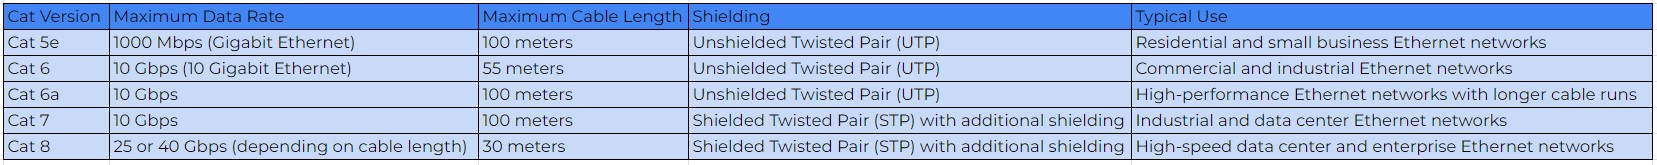
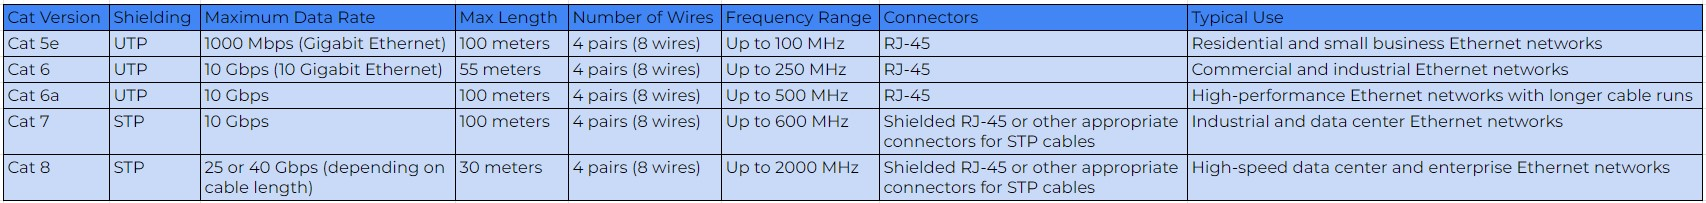
1104230801AM

diff --git a/networkknowledge/web/networkknowledge.html b/networkknowledge/web/networkknowledge.html
@@ -17,7 +17,8 @@
           <td align="middle"><img src="images/computernetworking.jpg" alt="" width="79%" height="60%"></td>
           <td>  
             <b><a href="#id_expansion_cards_details" style="color: rgb(0, 0, 0); text-decoration: none;">x-----------------------------x</a></b><b><a href="#id_cooling_system_details" style="color: rgb(0, 0, 0); text-decoration: none;"> | x-----------------------------x</a></b>
-            <b>x-----------------------------x</b>
+            <b>x-----------------------------x</b>     
+            <b><a href="#id_last_details" style="color: rgb(0, 0, 0); text-decoration: none;">######   reach end of the document   ######</a></b>      <b id="id_top_details"></b> 
           </td>
       </tr>
   </table>
@@ -243,27 +244,60 @@ There are several popular cables used for networking, including:
         <img src="images/3.5.2.UTPcableproperties.jpg" alt="" width="49%" height="40%">
         TIA/EIA 568A and TIA/EIA 568B are two different wiring standards for Ethernet cabling, specified by the Telecommunications Industry Association (TIA) and the Electronic Industries 
         Alliance (EIA). These standards define the pinout and color coding for the various pairs of wires used in Ethernet cabling, specifically for 10BASE-T and 100BASE-TX Ethernet networks.
+        The naming conventions for STP and UTP cables in Ethernet standards typically follow similar patterns. Here's a general guide on how STP and UTP cables are typically named:
+            Data Transfer Rate: The data transfer rate, which indicates the speed at which data can be transmitted over the network, is usually specified as a number in Mbps, Gbps, or higher.
+            Cable Type: The cable type, whether it's STP or UTP, may be indicated in the naming convention. For example, "T" typically indicates UTP cables, while "F" or "X" may indicate fiber 
+            optic cables, and "S" or "L" may indicate STP cables.
+            Maximum Distance: The maximum distance that data can be transmitted over the network using the specified cable type is usually indicated in the naming convention. This distance is usually 
+            expressed in meters or feet and indicates the maximum length of the cable that can be used for network connections.
+            Other Parameters: Some standards may include additional parameters, such as the encoding scheme used for data transmission, the type of connectors used, or other specifications.
+        "10GBASE-T" is an Ethernet standard that specifies 
+            "10G" in the name indicates the data transfer rate of 10 Gbps
+            "BASE" indicates that it uses baseband signaling, which means that the entire bandwidth of the cable is dedicated to carrying Ethernet data
+            "T" indicates that twisted pair copper cables are used for network connections
+        "Cat" stands for "Category" and refers to a classification system used for Ethernet cables that indicates the performance and capabilities of the cable. Different Cat versions correspond to 
+        different standards set by the TIA/EIA for Ethernet cabling. Overview of the main differences between these Cat versions:
+        <img src="images/3.6.catversions.jpg" alt="" width="69%" height="40%">
     Fiber Optic Cable: Fiber optic cables are used for high-speed and long-distance networking applications. They use light to transmit data, offering faster data transfer rates and better immunity to 
     interference compared to Ethernet cables. Fiber optic cables are commonly used in data centers, telecommunication networks, and other environments where high bandwidth and long-distance 
-    transmission are required. These cables are commonly used in ring topologies and mesh topology
+    transmission are required. These cables are commonly used in ring topologies and mesh topology. There are several different modes of fiber optic cables available, which refer to the way light 
+    travels within the fiber core. 
     <img src="images/3.2.fibreopticcables.jpg" alt="" width="19%" height="40%">
-The naming conventions for STP and UTP cables in Ethernet standards typically follow similar patterns. Here's a general guide on how STP and UTP cables are typically named:
-    Data Transfer Rate: The data transfer rate, which indicates the speed at which data can be transmitted over the network, is usually specified as a number in Mbps, Gbps, or higher.
-    Cable Type: The cable type, whether it's STP or UTP, may be indicated in the naming convention. For example, "T" typically indicates UTP cables, while "F" or "X" may indicate fiber 
-    optic cables, and "S" or "L" may indicate STP cables.
-    Maximum Distance: The maximum distance that data can be transmitted over the network using the specified cable type is usually indicated in the naming convention. This distance is usually 
-    expressed in meters or feet and indicates the maximum length of the cable that can be used for network connections.
-    Other Parameters: Some standards may include additional parameters, such as the encoding scheme used for data transmission, the type of connectors used, or other specifications.
-"10GBASE-T" is an Ethernet standard that specifies 
-    "10G" in the name indicates the data transfer rate of 10 Gbps
-    "BASE" indicates that it uses baseband signaling, which means that the entire bandwidth of the cable is dedicated to carrying Ethernet data
-    "T" indicates that twisted pair copper cables are used for network connections
-"Cat" stands for "Category" and refers to a classification system used for Ethernet cables that indicates the performance and capabilities of the cable. Different Cat versions correspond to 
-different standards set by the TIA/EIA for Ethernet cabling. Overview of the main differences between these Cat versions:
-<img src="images/3.6.catversions.jpg" alt="" width="69%" height="40%">
-Here's a comprehensive list of network topologies, along with the commonly used cables for each topology:
-<img src="images/3.4.cabletypeandtopology.jpg" alt="" width="69%" height="40%">
+    The most common modes of fiber optic cables are:
+        Single-mode (SM): Single-mode fiber optic cables have a small core diameter (typically 9/125 µm or 8.3/125 µm) and allow for only one mode, a single path of light propagation , of light to 
+        travel through the core. Single-mode fibers are designed for long-distance transmission and are used in high-bandwidth applications such as long-haul telecommunications, data centers, and 
+        campus networks. Single-mode fiber is using laser as the source of the light for transmission of the optical signal and transmission media is glass.
+        Multimode (MM): Multimode fiber optic cables have a larger core diameter (typically 50/125 µm or 62.5/125 µm) and allow for multiple modes, allows for multiple modes of light propagation, 
+        of light to travel through the core. Multimode fibers are typically used for shorter distances, such as within buildings or campuses, and are suitable for lower-bandwidth applications such 
+        as local area networks (LANs), premises cabling, and some data center applications. Multimode fiber is using LEDs as the source of the light for transmission of the optical signal and cables 
+        are available in glass or in a plastic version. Single mode cables are meant for long distance, while multimode is often used for shorter distances
+        <img src="images/3.9.singlevsmultimodecabledifference.jpg" alt="" width="29%" height="40%"> 
+        Here is the main differences in characterization between single-mode and multimode fiber optic cables:
+        <img src="images/3.8.singlevsmultimodedifference.jpg" alt="" width="89%" height="40%"> 
+        Within multimode fibers, there are also different types of multimode fibers that are optimized for different performance characteristics: 
+        <img src="images/3.7.variousmutimodetypes.jpg" alt="" width="49%" height="40%">
+    There are several types of fiber optic connectors commonly used in the industry, including:
+        SC (Subscriber Connector): SC connectors are one of the most widely used fiber optic connectors. They have a square-shaped push-pull mechanism for easy insertion and removal, and they provide 
+        low insertion loss and high return loss.        
+        LC (Lucent Connector): LC connectors are small form-factor connectors that use a 1.25 mm ferrule, making them half the size of SC connectors. They are commonly used in high-density applications 
+        and provide low insertion loss and high return loss.        
+        ST (Straight Tip): ST connectors are one of the older types of fiber optic connectors and are commonly used in older networks. They have a round, bayonet-style coupling mechanism and use 
+        a 2.5 mm ferrule.        
+        FC (Ferrule Connector): FC connectors use a threaded coupling mechanism and a 2.5 mm ferrule. They are commonly used in applications that require high precision and stability, such as in 
+        laboratory settings.        
+        MTP/MPO (Multi-Fiber Push-On/Pull-Off): MTP/MPO connectors are used for multi-fiber cables and provide high-density connectivity. They have a push-pull mechanism and can accommodate multiple 
+        fibers in a single connector, making them ideal for data centers and high-speed networks.        
+        MT-RJ (Mechanical Transfer Registered Jack): MT-RJ connectors are duplex connectors that combine a fiber optic connection with a copper RJ-style connector in a single housing. They are 
+        commonly used in residential and small office/home office (SOHO) applications.
+        E2000: E2000 connectors have a spring-loaded shutter that protects the fiber when not in use, making them ideal for applications that require dust and dirt protection. They provide low 
+        insertion loss and high return loss.
+        <img src="images/3.10.fiberopticconnectors.jpg" alt="" width="69%" height="40%">
 
+
+Here's a comprehensive list of network topologies, along with the commonly used cables for each topology:
+<img src="images/3.4.cabletypeandtopology.jpg" alt="" width="79%" height="40%">
+<b><a href="#id_top_details" style="color: rgb(0, 0, 0); text-decoration: none;">######   reach start of the document   ######</a></b>  
+<b id="id_last_details"></b>
 <hr>
 </pre>
 </body>
